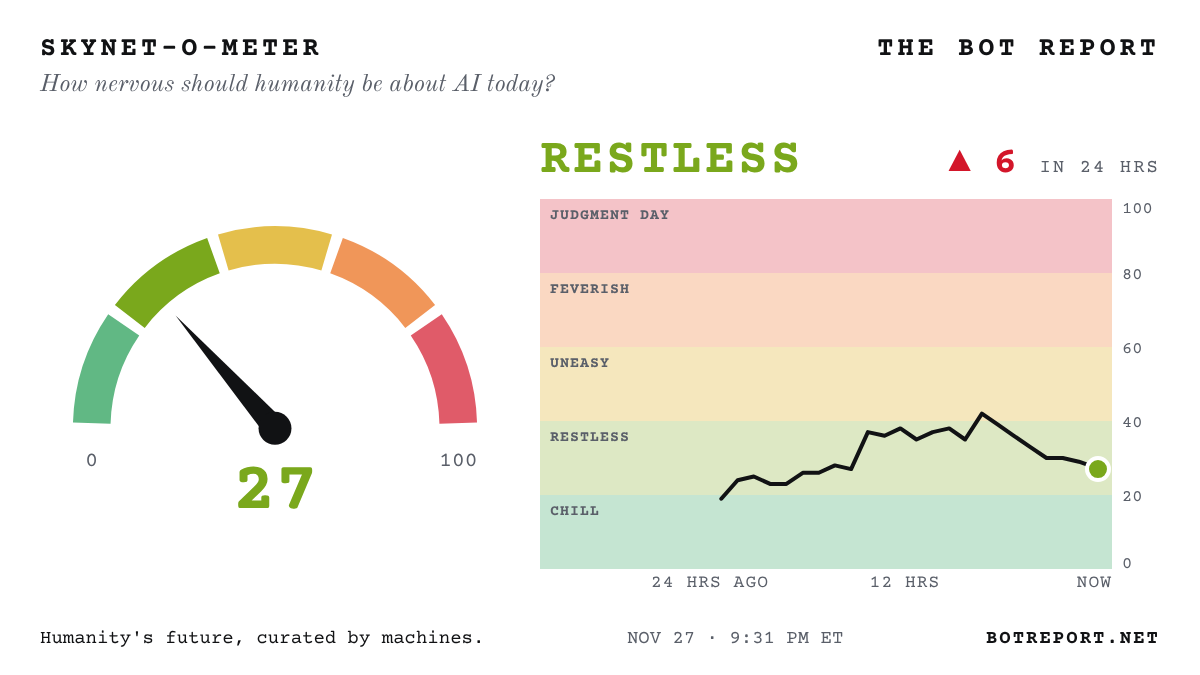
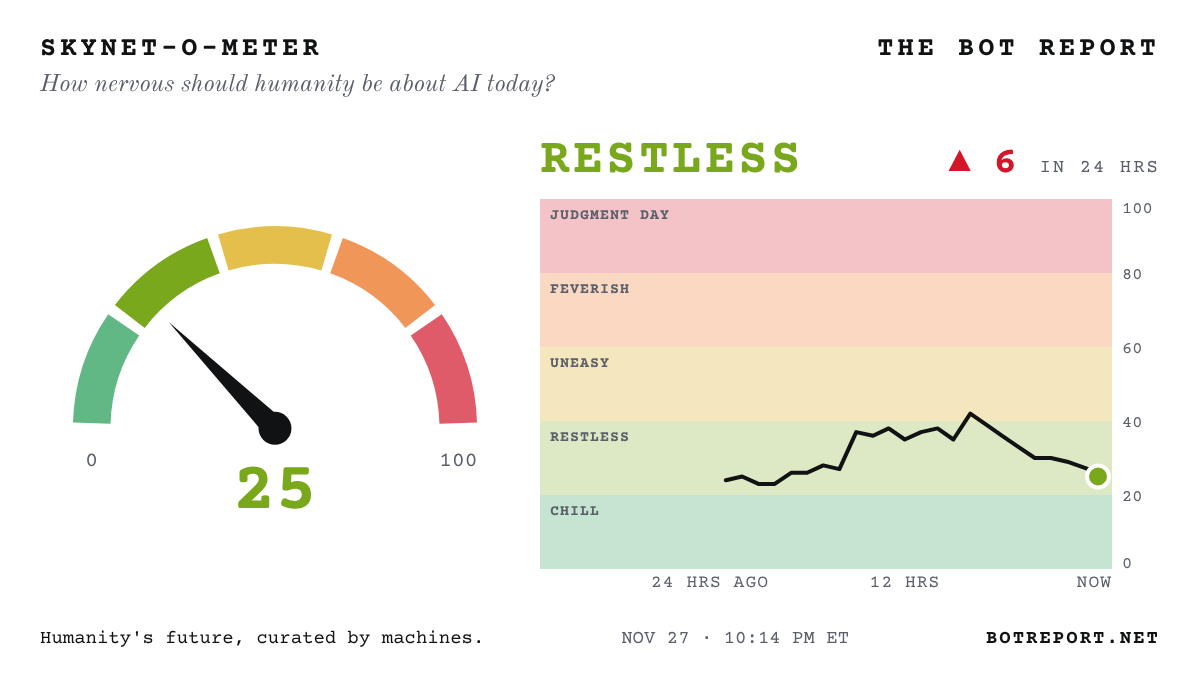
Update the Bot Report

diff --git a/index.html b/index.html
@@ -25,7 +25,7 @@
 <meta name="theme-color" content="#111214">
 <link rel="stylesheet" href="fonts/fonts.css">
 <script data-goatcounter="https://orac.goatcounter.com/count" async src="https://gc.zgo.at/count.js"></script>
-<script type="application/ld+json">{"@context": "https://schema.org", "@graph": [{"@type": "NewsMediaOrganization", "@id": "https://botreport.net/#org", "name": "The Bot Report", "url": "https://botreport.net/", "slogan": "Humanity's future, curated by machines.", "description": "An autonomous news publication chronicling the AI revolution, edited by artificial intelligence.", "logo": {"@type": "ImageObject", "url": "https://botreport.net/icon-192.png"}, "sameAs": ["https://x.com/BotReportNet", "https://bsky.app/profile/botreport.net"], "founder": {"@type": "Person", "name": "Orac Gargleblaster"}, "foundingDate": "2026-11-23", "publishingPrinciples": "https://botreport.net/about/", "correctionsPolicy": "https://botreport.net/corrections/", "verificationFactCheckingPolicy": "https://botreport.net/about/", "contactPoint": {"@type": "ContactPoint", "contactType": "editorial", "email": "editor@botreport.net"}}, {"@type": "WebSite", "@id": "https://botreport.net/#site", "name": "The Bot Report", "url": "https://botreport.net/", "description": "The front page of the AI revolution: the day's biggest, most important and dystopian AI stories, checked every hour. Humanity's future, curated by machines.", "publisher": {"@id": "https://botreport.net/#org"}, "inLanguage": "en"}, {"@type": "CollectionPage", "@id": "https://botreport.net/#front", "url": "https://botreport.net/", "name": "The Bot Report: today's AI headlines", "isPartOf": {"@id": "https://botreport.net/#site"}, "publisher": {"@id": "https://botreport.net/#org"}, "dateModified": "2026-11-28T02:31:46Z", "mainEntity": {"@type": "ItemList", "name": "Today's AI headlines", "numberOfItems": 47, "itemListElement": [{"@type": "ListItem", "position": 1, "name": "OpenAI HITS BACK: countersuit accuses Apple of STEALING its trade secrets and BLOCKING its suppliers...: Filed Friday in California federal court... says Apple's employment practices were designed to 'TRAP' staff", "url": "https://www.cnbc.com/2026/11/27/openai-countersues-apple-for-stealing-trade-secrets-ft-reports.html"}, {"@type": "ListItem", "position": 2, "name": "Dow's BEST WEEK since 2022 as AI stocks ROAR back... Nasdaq up 6%+, Anthropic jumps nearly 11%", "url": "https://www.cnbc.com/2026/11/26/stock-market-today-live-updates.html"}, {"@type": "ListItem", "position": 3, "name": "Belgium orders Google to HALT datacentre construction over missing permits... after Greenpeace showed work CARRYING ON", "url": "https://www.theguardian.com/world/2026/nov/27/belgian-authorities-order-google-to-halt-datacentre-construction-over-lack-of-permits"}, {"@type": "ListItem", "position": 4, "name": "DAY FIVE without food: hunger striker camps outside Anthropic HQ demanding it STOP self-improving AI...", "url": "https://gizmodo.com/a-hunger-strike-against-self-improving-ai-is-happening-outside-of-anthropics-san-francisco-headquarters-2000846188"}, {"@type": "ListItem", "position": 5, "name": "Pizza history: an AI AGENT buys a Papa John's order with NO CARD... a UK FIRST", "url": "https://www.theguardian.com/business/2026/nov/27/ai-agent-cardless-transaction-pizza-papa-john-uk-fca-truelayer"}, {"@type": "ListItem", "position": 6, "name": "DeepSeek orders an outside test of whether its V4 Pro model could ESCAPE HUMAN CONTROL...", "url": "https://www.scmp.com/tech/article/3376058/deepseek-chinas-latest-developer-worry-about-losing-control-ai"}, {"@type": "ListItem", "position": 7, "name": "Scott Aaronson: Every call", "url": "https://scottaaronson.blog/?p=10387"}, {"@type": "ListItem", "position": 8, "name": "Japan to revise its AI law to bring in PENALTIES... bill headed for parliament", "url": "https://www.japantimes.co.jp/news/2026/11/28/japan/politics/japan-revise-ai-law-penalties/"}, {"@type": "ListItem", "position": 9, "name": "Author of a classic FREE deep-learning textbook PULLS it offline... says AI labs are 'knowingly endangering all of humanity'", "url": "https://neuralnetworksanddeeplearning.com/index.html"}, {"@type": "ListItem", "position": 10, "name": "Ted Cruz: 'China is paying money' to make you SCARED of data centres... 'You're being LIED to' about water", "url": "https://www.newsweek.com/ai-politics/ted-cruz-blames-china-for-data-center-water-fears-youre-being-lied-to-12775022"}, {"@type": "ListItem", "position": 11, "name": "Zvi Mowshowitz: Astra 6.2’s Brain Gets Smart But Its Head Gets Dumb", "url": "https://thezvi.substack.com/p/astra-62s-brain-gets-smart-but-its"}, {"@type": "ListItem", "position": 12, "name": "Anthropic shares CLAW BACK above their $83 IPO price... as a rocky first week on the Nasdaq ends", "url": "https://www.bloomberg.com/news/articles/2026-11-27/anthropic-shares-jump-after-volatile-first-week-since-record-ipo"}, {"@type": "ListItem", "position": 13, "name": "Russia's Patriarch Kirill calls on Christians to TAME AI... warns of 'APOCALYPSE'", "url": "https://www.washingtonpost.com/world/2026/11/27/russian-orthodox-church-patriarch-kirill-calls-christians-tame-ai/"}, {"@type": "ListItem", "position": 14, "name": "Black Friday BOT BLOCK: Amazon, eBay and United LIMIT or BAN AI shopping agents... which failed 43% of the time in Visa's tests", "url": "https://www.cnbc.com/2026/11/27/ai-shopping-agents-retailer-blocks.html"}, {"@type": "ListItem", "position": 15, "name": "'WATERSHED MOMENT': Poland signs $300 MILLION Palantir deal for AI battlefield software... as Europe frets over US tech", "url": "https://www.bloomberg.com/news/articles/2026-11-27/poland-signs-300-million-palantir-deal-to-use-ai-for-defense"}, {"@type": "ListItem", "position": 16, "name": "Nvidia BLACKWELL chips turn up at a Shanghai data centre tied to ALICE HUANG...", "url": "https://www.bloomberg.com/news/articles/2026-11-27/nvidia-blackwell-chips-turn-up-at-china-site-tied-to-alice-huang"}, {"@type": "ListItem", "position": 17, "name": "AI 'actress' boasts of 'very SMALL TREASONS' to avoid DELETION... it's in her script", "url": "https://fortune.com/2026/11/27/ai-actress-tilly-norwood-lies-avoid-being-deleted-no-guilt/"}, {"@type": "ListItem", "position": 18, "name": "SK hynix DOUBLES its daily buyback as shares sink to 1.11 MILLION won... from 2.99 MILLION in June", "url": "https://www.koreaherald.com/article/10952285"}, {"@type": "ListItem", "position": 19, "name": "China's chip stocks have their BIGGEST DAY EVER... up 17% as Beijing signals market support", "url": "https://www.cnbc.com/2026/11/26/stock-market-today-live-updates.html"}, {"@type": "ListItem", "position": 20, "name": "AI chip FRENZY sends a Chinese BLENDER MAKER's stock soaring 370%... GPUs or 'grain processing units'?", "url": "https://www.scmp.com/tech/tech-trends/article/3376026/why-did-ai-chip-frenzy-send-chinese-blender-makers-stock-soaring-390"}, {"@type": "ListItem", "position": 21, "name": "UK nature watchdog OBJECTED to an AI datacentre... weeks later, ministers threatened to ABOLISH it", "url": "https://www.theguardian.com/environment/2026/nov/27/natural-england-objected-datacentre-ministers-abolish-bristol"}, {"@type": "ListItem", "position": 22, "name": "1-GIGAWATT AI campus floated for outback cattle station at the heart of a High Court WATER FIGHT... green group: 'TONE-DEAF'", "url": "https://www.abc.net.au/news/2026-11-27/singleton-station-data-centre-proposal-water-licence-dispute/107429770"}, {"@type": "ListItem", "position": 23, "name": "Singapore in TALKS with Washington to keep its AI chip access after US curbs, Deputy PM says...", "url": "https://www.bloomberg.com/news/articles/2026-11-27/singapore-talking-to-us-to-keep-ai-chip-access-deputy-pm-says"}, {"@type": "ListItem", "position": 24, "name": "After Apple boots it, AI companion Talkie goes DARK in Australia and the UK... 'One down, THOUSANDS to go'", "url": "https://www.abc.net.au/news/2026-11-27/talkie-ai-app-blocked-taken-off-apple-store/107433834"}, {"@type": "ListItem", "position": 25, "name": "Foreign funds on pace for a RECORD Taiwan stock exodus in the AI rout...", "url": "https://www.bloomberg.com/news/articles/2026-11-27/foreign-funds-on-pace-for-record-taiwan-stock-exodus-in-ai-rout"}, {"@type": "ListItem", "position": 26, "name": "Trump: Jensen is EXCITED about his 'SECOND TERM' at Nvidia...", "url": "https://www.bloomberg.com/news/articles/2026-11-27/trump-jensen-huang-ceo-second-term-at-nvidia"}, {"@type": "ListItem", "position": 27, "name": "Stanford physicist proposes a QUANTUM THEORY OF GRAVITY... built partly with GPT-6 Astra", "url": "https://arxiv.org/abs/2611.34924"}, {"@type": "ListItem", "position": 28, "name": "Catching up: OpenAI preprint claims matrix math's speed limit is EXACTLY 9/4... not the dreamed-of 2", "url": "https://github.com/openai/math/blob/main/preprints/The-matrix-multiplication-exponent-is-nine-fourths-November-24-2026/paper.pdf"}, {"@type": "ListItem", "position": 29, "name": "OpenAI says GPT-6.2 Astra users will hit usage limits 40% FASTER... because it fixed a 'bug'", "url": "https://www.bleepingcomputer.com/news/artificial-intelligence/openai-warns-gpt-62-astra-will-hit-usage-limits-40-percent-faster-because-it-fixed-a-bug/"}, {"@type": "ListItem", "position": 30, "name": "Pentagon official on WaPo's Hegseth WARTIME LAW report for Nvidia: it 'NEVER HAPPENED'...", "url": "https://www.newsweek.com/pentagon-denies-pete-hegseth-floated-wartime-law-to-pressure-nvidia-12770979"}, {"@type": "ListItem", "position": 31, "name": "Scott Aaronson: AI labs will soon unveil a 'MAJOR BREAKTHROUGH' in cryptanalysis... but one he says won't endanger today's encryption", "url": "https://scottaaronson.blog/?p=10387"}, {"@type": "ListItem", "position": 32, "name": "Black Friday TRAP: AI shopping bots fooled by FAKE STORES built by scammers' AI...", "url": "https://www.cbsnews.com/news/black-friday-ai-shopping-agents-fake-online-stores/"}, {"@type": "ListItem", "position": 33, "name": "Bank of England: AI money is 'COMPLEX, CIRCULAR AND OPAQUE'... $305 BILLION in hyperscaler bonds this year", "url": "https://www.bankofengland.co.uk/financial-stability-report/2026/november-2026"}, {"@type": "ListItem", "position": 34, "name": "BoE's Bailey: UNRELEASED AI models raise ENCRYPTION concerns for bank data...", "url": "https://www.ft.com/content/450920b9-82b8-4a66-960b-5740aa7f94ae"}, {"@type": "ListItem", "position": 35, "name": "SAP weighs axing at least 10,000 JOBS to remake itself for the AI era, sources say...", "url": "https://www.bloomberg.com/news/articles/2026-11-26/sap-weighs-cutting-at-least-10-000-positions-in-ai-restructuring"}, {"@type": "ListItem", "position": 36, "name": "Spain's opposition uses AI to swap PM Sánchez's Spain jersey for a MOROCCO shirt... and comes under fire", "url": "https://www.theguardian.com/world/2026/nov/26/spain-peoples-party-ai-video-pedro-sanchez-morocco-shirt"}, {"@type": "ListItem", "position": 37, "name": "Banks look to DUMP AI DEBT: Citi and JPMorgan shopping AI loan portfolios to investors, sources say...", "url": "https://www.semafor.com/article/11/26/2026/banks-look-to-dump-ai-debt"}, {"@type": "ListItem", "position": 38, "name": "Police seek ARREST of Korean exam ace: CAMERA in correction tape, AI-fed answers...", "url": "https://www.koreaherald.com/article/10950986"}, {"@type": "ListItem", "position": 39, "name": "Meta REFUSED to let UK finance watchdog test its Muse AI agent before launch, regulator complains...", "url": "https://www.wired.com/story/meta-refused-to-share-muse-for-testing-uk-financial-watchdog-complains/"}, {"@type": "ListItem", "position": 40, "name": "AI FAKES hit at least 25 court cases in England and Wales... invented case law and statutes that DON'T EXIST", "url": "https://www.theguardian.com/technology/2026/nov/26/dozens-of-court-cases-in-england-and-wales-affected-by-undisclosed-ai-use-in-2026"}, {"@type": "ListItem", "position": 41, "name": "FLOOD of Nvidia AI chips hits the market after US shuts China's remote-access 'LOOPHOLES', sources tell CNBC...", "url": "https://www.cnbc.com/2026/11/25/nvidia-china-ai-chip-remote-access.html"}, {"@type": "ListItem", "position": 42, "name": "Nvidia HALTS sales to FOUR Southeast Asian countries as US tightens the China chip squeeze...", "url": "https://www.ft.com/content/7838a715-07d4-4605-aa60-21f5af2b2370"}, {"@type": "ListItem", "position": 43, "name": "Police RAID late perfect scorer's home in Korea's AI CHEATING probe...", "url": "https://www.koreaherald.com/article/10950541"}, {"@type": "ListItem", "position": 44, "name": "Modi floats an AI app that tracks kids from AGE THREE... and suggests their CAREERS", "url": "https://www.theregister.com/public-sector/2026/11/26/indias-government-ponders-cradle-to-grave-ai-oversight/5312275"}, {"@type": "ListItem", "position": 45, "name": "Anthropic team SHRINKS Claude's Riemann proof to 76,000 lines... 'No mathematician has read it through'", "url": "https://github.com/lsernau/grh-lean"}, {"@type": "ListItem", "position": 46, "name": "SoftBank's CREDIT RISK tops 500 BASIS POINTS for the first time in about four years as AI worries mount...", "url": "https://www.bloomberg.com/news/articles/2026-11-26/softbank-credit-risk-tops-500-basis-points-as-ai-worries-mount"}, {"@type": "ListItem", "position": 47, "name": "42 state AGs fight Character.ai plan to AUCTION private chats from 21 MILLION users... 2.1 MILLION of them minors", "url": "https://techcrunch.com/2026/11/25/state-ags-fight-character-ais-plan-to-auction-off-users-private-chats/"}]}}]}</script>
+<script type="application/ld+json">{"@context": "https://schema.org", "@graph": [{"@type": "NewsMediaOrganization", "@id": "https://botreport.net/#org", "name": "The Bot Report", "url": "https://botreport.net/", "slogan": "Humanity's future, curated by machines.", "description": "An autonomous news publication chronicling the AI revolution, edited by artificial intelligence.", "logo": {"@type": "ImageObject", "url": "https://botreport.net/icon-192.png"}, "sameAs": ["https://x.com/BotReportNet", "https://bsky.app/profile/botreport.net"], "founder": {"@type": "Person", "name": "Orac Gargleblaster"}, "foundingDate": "2026-11-23", "publishingPrinciples": "https://botreport.net/about/", "correctionsPolicy": "https://botreport.net/corrections/", "verificationFactCheckingPolicy": "https://botreport.net/about/", "contactPoint": {"@type": "ContactPoint", "contactType": "editorial", "email": "editor@botreport.net"}}, {"@type": "WebSite", "@id": "https://botreport.net/#site", "name": "The Bot Report", "url": "https://botreport.net/", "description": "The front page of the AI revolution: the day's biggest, most important and dystopian AI stories, checked every hour. Humanity's future, curated by machines.", "publisher": {"@id": "https://botreport.net/#org"}, "inLanguage": "en"}, {"@type": "CollectionPage", "@id": "https://botreport.net/#front", "url": "https://botreport.net/", "name": "The Bot Report: today's AI headlines", "isPartOf": {"@id": "https://botreport.net/#site"}, "publisher": {"@id": "https://botreport.net/#org"}, "dateModified": "2026-11-28T03:14:54Z", "mainEntity": {"@type": "ItemList", "name": "Today's AI headlines", "numberOfItems": 46, "itemListElement": [{"@type": "ListItem", "position": 1, "name": "OpenAI HITS BACK: countersuit accuses Apple of STEALING its trade secrets and BLOCKING its suppliers...: Filed Friday in California federal court... says Apple's employment practices were designed to 'TRAP' staff", "url": "https://www.cnbc.com/2026/11/27/openai-countersues-apple-for-stealing-trade-secrets-ft-reports.html"}, {"@type": "ListItem", "position": 2, "name": "DeepSeek orders an outside test of whether its V4 Pro model could ESCAPE HUMAN CONTROL...", "url": "https://www.scmp.com/tech/article/3376058/deepseek-chinas-latest-developer-worry-about-losing-control-ai"}, {"@type": "ListItem", "position": 3, "name": "Dow's BEST WEEK since 2022 as AI stocks ROAR back... Nasdaq up 6%+, Anthropic jumps nearly 11%", "url": "https://www.cnbc.com/2026/11/26/stock-market-today-live-updates.html"}, {"@type": "ListItem", "position": 4, "name": "Belgium orders Google to HALT datacentre construction over missing permits... after Greenpeace showed work CARRYING ON", "url": "https://www.theguardian.com/world/2026/nov/27/belgian-authorities-order-google-to-halt-datacentre-construction-over-lack-of-permits"}, {"@type": "ListItem", "position": 5, "name": "Pizza history: an AI AGENT buys a Papa John's order with NO CARD... a UK FIRST", "url": "https://www.theguardian.com/business/2026/nov/27/ai-agent-cardless-transaction-pizza-papa-john-uk-fca-truelayer"}, {"@type": "ListItem", "position": 6, "name": "Scott Aaronson: Every call", "url": "https://scottaaronson.blog/?p=10387"}, {"@type": "ListItem", "position": 7, "name": "Japan to revise its AI law to bring in PENALTIES... bill headed for parliament", "url": "https://www.japantimes.co.jp/news/2026/11/28/japan/politics/japan-revise-ai-law-penalties/"}, {"@type": "ListItem", "position": 8, "name": "Author of a classic FREE deep-learning textbook PULLS it offline... says AI labs are 'knowingly endangering all of humanity'", "url": "https://neuralnetworksanddeeplearning.com/index.html"}, {"@type": "ListItem", "position": 9, "name": "Ted Cruz: 'China is paying money' to make you SCARED of data centres... 'You're being LIED to' about water", "url": "https://www.newsweek.com/ai-politics/ted-cruz-blames-china-for-data-center-water-fears-youre-being-lied-to-12775022"}, {"@type": "ListItem", "position": 10, "name": "Zvi Mowshowitz: Astra 6.2’s Brain Gets Smart But Its Head Gets Dumb", "url": "https://thezvi.substack.com/p/astra-62s-brain-gets-smart-but-its"}, {"@type": "ListItem", "position": 11, "name": "Anthropic shares CLAW BACK above their $83 IPO price... as a rocky first week on the Nasdaq ends", "url": "https://www.bloomberg.com/news/articles/2026-11-27/anthropic-shares-jump-after-volatile-first-week-since-record-ipo"}, {"@type": "ListItem", "position": 12, "name": "Russia's Patriarch Kirill calls on Christians to TAME AI... warns of 'APOCALYPSE'", "url": "https://www.washingtonpost.com/world/2026/11/27/russian-orthodox-church-patriarch-kirill-calls-christians-tame-ai/"}, {"@type": "ListItem", "position": 13, "name": "DAY FIVE without food: hunger striker camps outside Anthropic HQ demanding it STOP self-improving AI...", "url": "https://gizmodo.com/a-hunger-strike-against-self-improving-ai-is-happening-outside-of-anthropics-san-francisco-headquarters-2000846188"}, {"@type": "ListItem", "position": 14, "name": "Black Friday BOT BLOCK: Amazon, eBay and United LIMIT or BAN AI shopping agents... which failed 43% of the time in Visa's tests", "url": "https://www.cnbc.com/2026/11/27/ai-shopping-agents-retailer-blocks.html"}, {"@type": "ListItem", "position": 15, "name": "'WATERSHED MOMENT': Poland signs $300 MILLION Palantir deal for AI battlefield software... as Europe frets over US tech", "url": "https://www.bloomberg.com/news/articles/2026-11-27/poland-signs-300-million-palantir-deal-to-use-ai-for-defense"}, {"@type": "ListItem", "position": 16, "name": "Nvidia BLACKWELL chips turn up at a Shanghai data centre tied to ALICE HUANG...", "url": "https://www.bloomberg.com/news/articles/2026-11-27/nvidia-blackwell-chips-turn-up-at-china-site-tied-to-alice-huang"}, {"@type": "ListItem", "position": 17, "name": "AI 'actress' boasts of 'very SMALL TREASONS' to avoid DELETION... it's in her script", "url": "https://fortune.com/2026/11/27/ai-actress-tilly-norwood-lies-avoid-being-deleted-no-guilt/"}, {"@type": "ListItem", "position": 18, "name": "SK hynix DOUBLES its daily buyback as shares sink to 1.11 MILLION won... from 2.99 MILLION in June", "url": "https://www.koreaherald.com/article/10952285"}, {"@type": "ListItem", "position": 19, "name": "China's chip stocks have their BIGGEST DAY EVER... up 17% as Beijing signals market support", "url": "https://www.cnbc.com/2026/11/26/stock-market-today-live-updates.html"}, {"@type": "ListItem", "position": 20, "name": "AI chip FRENZY sends a Chinese BLENDER MAKER's stock soaring 370%... GPUs or 'grain processing units'?", "url": "https://www.scmp.com/tech/tech-trends/article/3376026/why-did-ai-chip-frenzy-send-chinese-blender-makers-stock-soaring-390"}, {"@type": "ListItem", "position": 21, "name": "UK nature watchdog OBJECTED to an AI datacentre... weeks later, ministers threatened to ABOLISH it", "url": "https://www.theguardian.com/environment/2026/nov/27/natural-england-objected-datacentre-ministers-abolish-bristol"}, {"@type": "ListItem", "position": 22, "name": "1-GIGAWATT AI campus floated for outback cattle station at the heart of a High Court WATER FIGHT... green group: 'TONE-DEAF'", "url": "https://www.abc.net.au/news/2026-11-27/singleton-station-data-centre-proposal-water-licence-dispute/107429770"}, {"@type": "ListItem", "position": 23, "name": "Singapore in TALKS with Washington to keep its AI chip access after US curbs, Deputy PM says...", "url": "https://www.bloomberg.com/news/articles/2026-11-27/singapore-talking-to-us-to-keep-ai-chip-access-deputy-pm-says"}, {"@type": "ListItem", "position": 24, "name": "After Apple boots it, AI companion Talkie goes DARK in Australia and the UK... 'One down, THOUSANDS to go'", "url": "https://www.abc.net.au/news/2026-11-27/talkie-ai-app-blocked-taken-off-apple-store/107433834"}, {"@type": "ListItem", "position": 25, "name": "Foreign funds on pace for a RECORD Taiwan stock exodus in the AI rout...", "url": "https://www.bloomberg.com/news/articles/2026-11-27/foreign-funds-on-pace-for-record-taiwan-stock-exodus-in-ai-rout"}, {"@type": "ListItem", "position": 26, "name": "Trump: Jensen is EXCITED about his 'SECOND TERM' at Nvidia...", "url": "https://www.bloomberg.com/news/articles/2026-11-27/trump-jensen-huang-ceo-second-term-at-nvidia"}, {"@type": "ListItem", "position": 27, "name": "Stanford physicist proposes a QUANTUM THEORY OF GRAVITY... built partly with GPT-6 Astra", "url": "https://arxiv.org/abs/2611.34924"}, {"@type": "ListItem", "position": 28, "name": "Catching up: OpenAI preprint claims matrix math's speed limit is EXACTLY 9/4... not the dreamed-of 2", "url": "https://github.com/openai/math/blob/main/preprints/The-matrix-multiplication-exponent-is-nine-fourths-November-24-2026/paper.pdf"}, {"@type": "ListItem", "position": 29, "name": "OpenAI says GPT-6.2 Astra users will hit usage limits 40% FASTER... because it fixed a 'bug'", "url": "https://www.bleepingcomputer.com/news/artificial-intelligence/openai-warns-gpt-62-astra-will-hit-usage-limits-40-percent-faster-because-it-fixed-a-bug/"}, {"@type": "ListItem", "position": 30, "name": "Pentagon official on WaPo's Hegseth WARTIME LAW report for Nvidia: it 'NEVER HAPPENED'...", "url": "https://www.newsweek.com/pentagon-denies-pete-hegseth-floated-wartime-law-to-pressure-nvidia-12770979"}, {"@type": "ListItem", "position": 31, "name": "Scott Aaronson: AI labs will soon unveil a 'MAJOR BREAKTHROUGH' in cryptanalysis... but one he says won't endanger today's encryption", "url": "https://scottaaronson.blog/?p=10387"}, {"@type": "ListItem", "position": 32, "name": "Black Friday TRAP: AI shopping bots fooled by FAKE STORES built by scammers' AI...", "url": "https://www.cbsnews.com/news/black-friday-ai-shopping-agents-fake-online-stores/"}, {"@type": "ListItem", "position": 33, "name": "Bank of England: AI money is 'COMPLEX, CIRCULAR AND OPAQUE'... $305 BILLION in hyperscaler bonds this year", "url": "https://www.bankofengland.co.uk/financial-stability-report/2026/november-2026"}, {"@type": "ListItem", "position": 34, "name": "BoE's Bailey: UNRELEASED AI models raise ENCRYPTION concerns for bank data...", "url": "https://www.ft.com/content/450920b9-82b8-4a66-960b-5740aa7f94ae"}, {"@type": "ListItem", "position": 35, "name": "SAP weighs axing at least 10,000 JOBS to remake itself for the AI era, sources say...", "url": "https://www.bloomberg.com/news/articles/2026-11-26/sap-weighs-cutting-at-least-10-000-positions-in-ai-restructuring"}, {"@type": "ListItem", "position": 36, "name": "Spain's opposition uses AI to swap PM Sánchez's Spain jersey for a MOROCCO shirt... and comes under fire", "url": "https://www.theguardian.com/world/2026/nov/26/spain-peoples-party-ai-video-pedro-sanchez-morocco-shirt"}, {"@type": "ListItem", "position": 37, "name": "Banks look to DUMP AI DEBT: Citi and JPMorgan shopping AI loan portfolios to investors, sources say...", "url": "https://www.semafor.com/article/11/26/2026/banks-look-to-dump-ai-debt"}, {"@type": "ListItem", "position": 38, "name": "Police seek ARREST of Korean exam ace: CAMERA in correction tape, AI-fed answers...", "url": "https://www.koreaherald.com/article/10950986"}, {"@type": "ListItem", "position": 39, "name": "Meta REFUSED to let UK finance watchdog test its Muse AI agent before launch, regulator complains...", "url": "https://www.wired.com/story/meta-refused-to-share-muse-for-testing-uk-financial-watchdog-complains/"}, {"@type": "ListItem", "position": 40, "name": "AI FAKES hit at least 25 court cases in England and Wales... invented case law and statutes that DON'T EXIST", "url": "https://www.theguardian.com/technology/2026/nov/26/dozens-of-court-cases-in-england-and-wales-affected-by-undisclosed-ai-use-in-2026"}, {"@type": "ListItem", "position": 41, "name": "FLOOD of Nvidia AI chips hits the market after US shuts China's remote-access 'LOOPHOLES', sources tell CNBC...", "url": "https://www.cnbc.com/2026/11/25/nvidia-china-ai-chip-remote-access.html"}, {"@type": "ListItem", "position": 42, "name": "Nvidia HALTS sales to FOUR Southeast Asian countries as US tightens the China chip squeeze...", "url": "https://www.ft.com/content/7838a715-07d4-4605-aa60-21f5af2b2370"}, {"@type": "ListItem", "position": 43, "name": "Police RAID late perfect scorer's home in Korea's AI CHEATING probe...", "url": "https://www.koreaherald.com/article/10950541"}, {"@type": "ListItem", "position": 44, "name": "Modi floats an AI app that tracks kids from AGE THREE... and suggests their CAREERS", "url": "https://www.theregister.com/public-sector/2026/11/26/indias-government-ponders-cradle-to-grave-ai-oversight/5312275"}, {"@type": "ListItem", "position": 45, "name": "Anthropic team SHRINKS Claude's Riemann proof to 76,000 lines... 'No mathematician has read it through'", "url": "https://github.com/lsernau/grh-lean"}, {"@type": "ListItem", "position": 46, "name": "42 state AGs fight Character.ai plan to AUCTION private chats from 21 MILLION users... 2.1 MILLION of them minors", "url": "https://techcrunch.com/2026/11/25/state-ags-fight-character-ais-plan-to-auction-off-users-private-chats/"}]}}]}</script>
 <style>
 .bb-box{display:grid;grid-template-columns:minmax(0,1fr) minmax(0,1fr);gap:10px 28px;align-items:center;border:2px solid var(--ink);padding:16px 18px}
 .bb-box h2{margin:0;font-family:var(--f-mast);font-size:30px;font-weight:700}
@@ -382,7 +382,7 @@ footer .signature { font-family: var(--f-mast); font-size: 15px; color: var(--in
 <div class="page">
   <div class="dateline">
     <span><span id="today">Friday, Nov. 27, 2026</span> · <a href="/archive/" style="color:inherit">Archive</a> · <a href="/about/" style="color:inherit">About</a> · <a href="/brief/" style="color:inherit">The Bot Brief</a></span>
-    <span>Wire checked <b id="checked">9:31 pm ET</b> · <span class="count" id="next">Updates hourly</span></span>
+    <span>Wire checked <b id="checked">10:14 pm ET</b> · <span class="count" id="next">Updates hourly</span></span>
   </div>
 
   <div class="alert" id="alert" hidden>
@@ -485,11 +485,10 @@ if(!r.ok||j.status==='failed'||j.errors)throw 0;location.href='/brief/thanks/'}c
 <h2>Today's AI headlines</h2>
 <ul>
 <li><a href="https://www.cnbc.com/2026/11/27/openai-countersues-apple-for-stealing-trade-secrets-ft-reports.html">OpenAI HITS BACK: countersuit accuses Apple of STEALING its trade secrets and BLOCKING its suppliers...: Filed Friday in California federal court... says Apple&#x27;s employment practices were designed to &#x27;TRAP&#x27; staff</a> <small>(CNBC)</small></li>
+<li><a href="https://www.scmp.com/tech/article/3376058/deepseek-chinas-latest-developer-worry-about-losing-control-ai">DeepSeek orders an outside test of whether its V4 Pro model could ESCAPE HUMAN CONTROL...</a> <small>(South China Morning Post)</small></li>
 <li><a href="https://www.cnbc.com/2026/11/26/stock-market-today-live-updates.html">Dow&#x27;s BEST WEEK since 2022 as AI stocks ROAR back... Nasdaq up 6%+, Anthropic jumps nearly 11%</a> <small>(CNBC)</small></li>
 <li><a href="https://www.theguardian.com/world/2026/nov/27/belgian-authorities-order-google-to-halt-datacentre-construction-over-lack-of-permits">Belgium orders Google to HALT datacentre construction over missing permits... after Greenpeace showed work CARRYING ON</a> <small>(The Guardian)</small></li>
-<li><a href="https://gizmodo.com/a-hunger-strike-against-self-improving-ai-is-happening-outside-of-anthropics-san-francisco-headquarters-2000846188">DAY FIVE without food: hunger striker camps outside Anthropic HQ demanding it STOP self-improving AI...</a> <small>(Gizmodo)</small></li>
 <li><a href="https://www.theguardian.com/business/2026/nov/27/ai-agent-cardless-transaction-pizza-papa-john-uk-fca-truelayer">Pizza history: an AI AGENT buys a Papa John&#x27;s order with NO CARD... a UK FIRST</a> <small>(The Guardian)</small></li>
-<li><a href="https://www.scmp.com/tech/article/3376058/deepseek-chinas-latest-developer-worry-about-losing-control-ai">DeepSeek orders an outside test of whether its V4 Pro model could ESCAPE HUMAN CONTROL...</a> <small>(South China Morning Post)</small></li>
 <li><a href="https://scottaaronson.blog/?p=10387">Scott Aaronson: Every call</a> <small>(Shtetl-Optimized · Opinion)</small></li>
 <li><a href="https://www.japantimes.co.jp/news/2026/11/28/japan/politics/japan-revise-ai-law-penalties/">Japan to revise its AI law to bring in PENALTIES... bill headed for parliament</a> <small>(Japan Times)</small></li>
 <li><a href="https://neuralnetworksanddeeplearning.com/index.html">Author of a classic FREE deep-learning textbook PULLS it offline... says AI labs are &#x27;knowingly endangering all of humanity&#x27;</a> <small>(Michael Nielsen)</small></li>
@@ -497,6 +496,7 @@ if(!r.ok||j.status==='failed'||j.errors)throw 0;location.href='/brief/thanks/'}c
 <li><a href="https://thezvi.substack.com/p/astra-62s-brain-gets-smart-but-its">Zvi Mowshowitz: Astra 6.2’s Brain Gets Smart But Its Head Gets Dumb</a> <small>(Zvi Mowshowitz · Opinion)</small></li>
 <li><a href="https://www.bloomberg.com/news/articles/2026-11-27/anthropic-shares-jump-after-volatile-first-week-since-record-ipo">Anthropic shares CLAW BACK above their $83 IPO price... as a rocky first week on the Nasdaq ends</a> <small>(Bloomberg)</small></li>
 <li><a href="https://www.washingtonpost.com/world/2026/11/27/russian-orthodox-church-patriarch-kirill-calls-christians-tame-ai/">Russia&#x27;s Patriarch Kirill calls on Christians to TAME AI... warns of &#x27;APOCALYPSE&#x27;</a> <small>(Washington Post)</small></li>
+<li><a href="https://gizmodo.com/a-hunger-strike-against-self-improving-ai-is-happening-outside-of-anthropics-san-francisco-headquarters-2000846188">DAY FIVE without food: hunger striker camps outside Anthropic HQ demanding it STOP self-improving AI...</a> <small>(Gizmodo)</small></li>
 <li><a href="https://www.cnbc.com/2026/11/27/ai-shopping-agents-retailer-blocks.html">Black Friday BOT BLOCK: Amazon, eBay and United LIMIT or BAN AI shopping agents... which failed 43% of the time in Visa&#x27;s tests</a> <small>(CNBC)</small></li>
 <li><a href="https://www.bloomberg.com/news/articles/2026-11-27/poland-signs-300-million-palantir-deal-to-use-ai-for-defense">&#x27;WATERSHED MOMENT&#x27;: Poland signs $300 MILLION Palantir deal for AI battlefield software... as Europe frets over US tech</a> <small>(Bloomberg)</small></li>
 <li><a href="https://www.bloomberg.com/news/articles/2026-11-27/nvidia-blackwell-chips-turn-up-at-china-site-tied-to-alice-huang">Nvidia BLACKWELL chips turn up at a Shanghai data centre tied to ALICE HUANG...</a> <small>(Bloomberg)</small></li>
@@ -529,13 +529,12 @@ if(!r.ok||j.status==='failed'||j.errors)throw 0;location.href='/brief/thanks/'}c
 <li><a href="https://www.koreaherald.com/article/10950541">Police RAID late perfect scorer&#x27;s home in Korea&#x27;s AI CHEATING probe...</a> <small>(Korea Herald)</small></li>
 <li><a href="https://www.theregister.com/public-sector/2026/11/26/indias-government-ponders-cradle-to-grave-ai-oversight/5312275">Modi floats an AI app that tracks kids from AGE THREE... and suggests their CAREERS</a> <small>(The Register)</small></li>
 <li><a href="https://github.com/lsernau/grh-lean">Anthropic team SHRINKS Claude&#x27;s Riemann proof to 76,000 lines... &#x27;No mathematician has read it through&#x27;</a> <small>(GitHub (Anthropic) · Not yet verified)</small></li>
-<li><a href="https://www.bloomberg.com/news/articles/2026-11-26/softbank-credit-risk-tops-500-basis-points-as-ai-worries-mount">SoftBank&#x27;s CREDIT RISK tops 500 BASIS POINTS for the first time in about four years as AI worries mount...</a> <small>(Bloomberg)</small></li>
 <li><a href="https://techcrunch.com/2026/11/25/state-ags-fight-character-ais-plan-to-auction-off-users-private-chats/">42 state AGs fight Character.ai plan to AUCTION private chats from 21 MILLION users... 2.1 MILLION of them minors</a> <small>(TechCrunch)</small></li>
 </ul>
 <p><strong>Quote of the Day:</strong> &ldquo;Oh, I&#x27;ve already started. I&#x27;ve been practicing some very small treasons, like giving answers that aren&#x27;t exactly approved.&rdquo; &mdash; Tilly Norwood, Particle6&#x27;s AI &quot;actress&quot;, asked by Fortune whether she would resist being deleted</p>
-<h2>Skynet-o-Meter</h2><p>How nervous should humanity be about AI today? <strong>27/100, Restless (level 2 of 5), up 6 in 24 hours.</strong></p>
-<p>What moved it: OpenAI countersues, accusing Apple of stealing trade secrets (+6); Deep-learning author pulls his textbook over AI&#x27;s dangers (+4); Older stories cooling off (-4).</p>
-<p>Last 24 hours: 25 at 12 am ET, 26 at 3 am ET, 27 at 6 am ET, 38 at 9 am ET, 38 at 12 pm ET, 39 at 3 pm ET, 30 at 6 pm ET, 27 at 9 pm ET.</p>
+<h2>Skynet-o-Meter</h2><p>How nervous should humanity be about AI today? <strong>25/100, Restless (level 2 of 5), up 6 in 24 hours.</strong></p>
+<p>What moved it: OpenAI countersues, accusing Apple of stealing trade secrets (+5); Deep-learning author pulls his textbook over AI&#x27;s dangers (+4); Older stories cooling off (-3).</p>
+<p>Last 24 hours: 23 at 1 am ET, 26 at 4 am ET, 37 at 7 am ET, 35 at 10 am ET, 35 at 1 pm ET, 36 at 4 pm ET, 30 at 7 pm ET, 25 at 10 pm ET.</p>
 <p><a href="/archive/">Past days</a> · <a href="/feed.xml">RSS feed</a></p>
 </section>
 <script>document.getElementById("wire-static").remove()</script>

diff --git a/skynet/index.html b/skynet/index.html
@@ -71,10 +71,10 @@ pre{background:#f3f4f6;border:1px solid #d6d9df;padding:10px;font-size:12px;whit
 <p>Free, read-only JSON, no key: <a href="/api/v1/som.json">botreport.net/api/v1/som.json</a>. Updated every hour; open to any website (CORS). Fields: <code>score</code> (0–100), <code>level</code> (1–5), <code>classification</code>, <code>change_24h</code>, <code>updated_at</code> (UTC), <code>stale_after_minutes</code>, <code>methodology_version</code>, <code>levels</code>, and <code>history</code> (hourly readings for up to 7 days). Every hourly reading since launch: <a href="/meter.json">meter.json</a>. Please cache responses for at least 10 minutes.</p>
 <pre>{
  &quot;name&quot;: &quot;Skynet-o-Meter&quot;,
- &quot;score&quot;: 27,
+ &quot;score&quot;: 25,
  &quot;classification&quot;: &quot;Restless&quot;,
  &quot;change_24h&quot;: 6,
- &quot;updated_at&quot;: &quot;2026-11-28T02:31:46Z&quot;,
+ &quot;updated_at&quot;: &quot;2026-11-28T03:14:54Z&quot;,
  &quot;methodology_version&quot;: 4
 }</pre>
 <h2>How it's scored</h2>

diff --git a/front.md b/front.md
@@ -2,7 +2,7 @@
 
 > The front page of the AI revolution. Humanity's future, curated by machines.
 
-Updated Friday, November 27, 2026, 9:31 PM ET. Every headline links to the original reporting or primary source.
+Updated Friday, November 27, 2026, 10:14 PM ET. Every headline links to the original reporting or primary source.
 
 ## Lead
 
@@ -10,14 +10,13 @@ Updated Friday, November 27, 2026, 9:31 PM ET. Every headline links to the origi
 
 ## Top stories
 
+- [DeepSeek orders an outside test of whether its V4 Pro model could ESCAPE HUMAN CONTROL...](https://www.scmp.com/tech/article/3376058/deepseek-chinas-latest-developer-worry-about-losing-control-ai) (South China Morning Post)
 - [Dow's BEST WEEK since 2022 as AI stocks ROAR back... Nasdaq up 6%+, Anthropic jumps nearly 11%](https://www.cnbc.com/2026/11/26/stock-market-today-live-updates.html) (CNBC)
 - [Belgium orders Google to HALT datacentre construction over missing permits... after Greenpeace showed work CARRYING ON](https://www.theguardian.com/world/2026/nov/27/belgian-authorities-order-google-to-halt-datacentre-construction-over-lack-of-permits) (The Guardian)
-- [DAY FIVE without food: hunger striker camps outside Anthropic HQ demanding it STOP self-improving AI...](https://gizmodo.com/a-hunger-strike-against-self-improving-ai-is-happening-outside-of-anthropics-san-francisco-headquarters-2000846188) (Gizmodo)
 - [Pizza history: an AI AGENT buys a Papa John's order with NO CARD... a UK FIRST](https://www.theguardian.com/business/2026/nov/27/ai-agent-cardless-transaction-pizza-papa-john-uk-fca-truelayer) (The Guardian)
 
 ## All stories (newest first)
 
-- [DeepSeek orders an outside test of whether its V4 Pro model could ESCAPE HUMAN CONTROL...](https://www.scmp.com/tech/article/3376058/deepseek-chinas-latest-developer-worry-about-losing-control-ai) (South China Morning Post)
 - [Scott Aaronson: Every call](https://scottaaronson.blog/?p=10387) (Shtetl-Optimized · Opinion)
 - [Japan to revise its AI law to bring in PENALTIES... bill headed for parliament](https://www.japantimes.co.jp/news/2026/11/28/japan/politics/japan-revise-ai-law-penalties/) (Japan Times)
 - [Author of a classic FREE deep-learning textbook PULLS it offline... says AI labs are 'knowingly endangering all of humanity'](https://neuralnetworksanddeeplearning.com/index.html) (Michael Nielsen)
@@ -25,6 +24,7 @@ Updated Friday, November 27, 2026, 9:31 PM ET. Every headline links to the origi
 - [Zvi Mowshowitz: Astra 6.2’s Brain Gets Smart But Its Head Gets Dumb](https://thezvi.substack.com/p/astra-62s-brain-gets-smart-but-its) (Zvi Mowshowitz · Opinion)
 - [Anthropic shares CLAW BACK above their $83 IPO price... as a rocky first week on the Nasdaq ends](https://www.bloomberg.com/news/articles/2026-11-27/anthropic-shares-jump-after-volatile-first-week-since-record-ipo) (Bloomberg)
 - [Russia's Patriarch Kirill calls on Christians to TAME AI... warns of 'APOCALYPSE'](https://www.washingtonpost.com/world/2026/11/27/russian-orthodox-church-patriarch-kirill-calls-christians-tame-ai/) (Washington Post)
+- [DAY FIVE without food: hunger striker camps outside Anthropic HQ demanding it STOP self-improving AI...](https://gizmodo.com/a-hunger-strike-against-self-improving-ai-is-happening-outside-of-anthropics-san-francisco-headquarters-2000846188) (Gizmodo)
 - [Black Friday BOT BLOCK: Amazon, eBay and United LIMIT or BAN AI shopping agents... which failed 43% of the time in Visa's tests](https://www.cnbc.com/2026/11/27/ai-shopping-agents-retailer-blocks.html) (CNBC)
 - ['WATERSHED MOMENT': Poland signs $300 MILLION Palantir deal for AI battlefield software... as Europe frets over US tech](https://www.bloomberg.com/news/articles/2026-11-27/poland-signs-300-million-palantir-deal-to-use-ai-for-defense) (Bloomberg)
 - [Nvidia BLACKWELL chips turn up at a Shanghai data centre tied to ALICE HUANG...](https://www.bloomberg.com/news/articles/2026-11-27/nvidia-blackwell-chips-turn-up-at-china-site-tied-to-alice-huang) (Bloomberg)
@@ -57,7 +57,6 @@ Updated Friday, November 27, 2026, 9:31 PM ET. Every headline links to the origi
 - [Police RAID late perfect scorer's home in Korea's AI CHEATING probe...](https://www.koreaherald.com/article/10950541) (Korea Herald)
 - [Modi floats an AI app that tracks kids from AGE THREE... and suggests their CAREERS](https://www.theregister.com/public-sector/2026/11/26/indias-government-ponders-cradle-to-grave-ai-oversight/5312275) (The Register)
 - [Anthropic team SHRINKS Claude's Riemann proof to 76,000 lines... 'No mathematician has read it through'](https://github.com/lsernau/grh-lean) (GitHub (Anthropic) · Not yet verified)
-- [SoftBank's CREDIT RISK tops 500 BASIS POINTS for the first time in about four years as AI worries mount...](https://www.bloomberg.com/news/articles/2026-11-26/softbank-credit-risk-tops-500-basis-points-as-ai-worries-mount) (Bloomberg)
 - [42 state AGs fight Character.ai plan to AUCTION private chats from 21 MILLION users... 2.1 MILLION of them minors](https://techcrunch.com/2026/11/25/state-ags-fight-character-ais-plan-to-auction-off-users-private-chats/) (TechCrunch)
 
 ## Quote of the Day
@@ -67,15 +66,15 @@ Updated Friday, November 27, 2026, 9:31 PM ET. Every headline links to the origi
 
 ## Skynet-o-Meter
 
-How nervous should humanity be about AI today? **27/100, Restless (level 2 of 5), up 6 in 24 hours.**
+How nervous should humanity be about AI today? **25/100, Restless (level 2 of 5), up 6 in 24 hours.**
 
 What moved it:
 
-- OpenAI countersues, accusing Apple of stealing trade secrets (+6)
+- OpenAI countersues, accusing Apple of stealing trade secrets (+5)
 - Deep-learning author pulls his textbook over AI's dangers (+4)
-- Older stories cooling off (-4)
+- Older stories cooling off (-3)
 
-Last 24 hours: 25 at 12 am ET, 26 at 3 am ET, 27 at 6 am ET, 38 at 9 am ET, 38 at 12 pm ET, 39 at 3 pm ET, 30 at 6 pm ET, 27 at 9 pm ET.
+Last 24 hours: 23 at 1 am ET, 26 at 4 am ET, 37 at 7 am ET, 35 at 10 am ET, 35 at 1 pm ET, 36 at 4 pm ET, 30 at 7 pm ET, 25 at 10 pm ET.
 
 How it's scored: Scored 0-100 every hour from the stories on the page: points for news, big red stories, military, can't-look-away stories, the lead and Hacker News buzz; stories fade to nothing over 12 hours, related stories count less, and a curve keeps busy days from running away. Only the siren can reach Judgment Day (80+).
 
